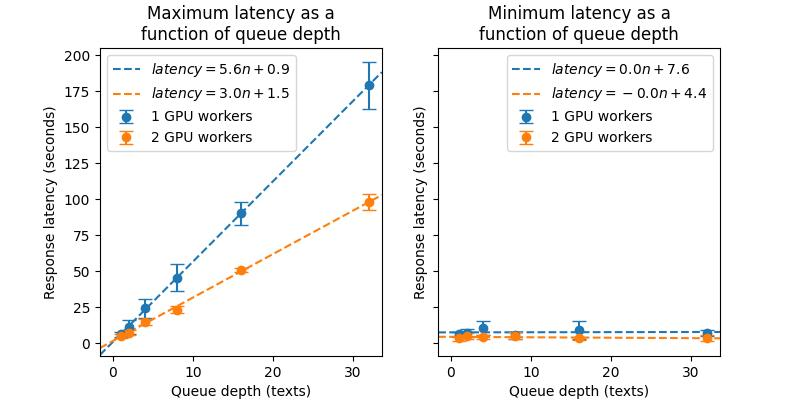
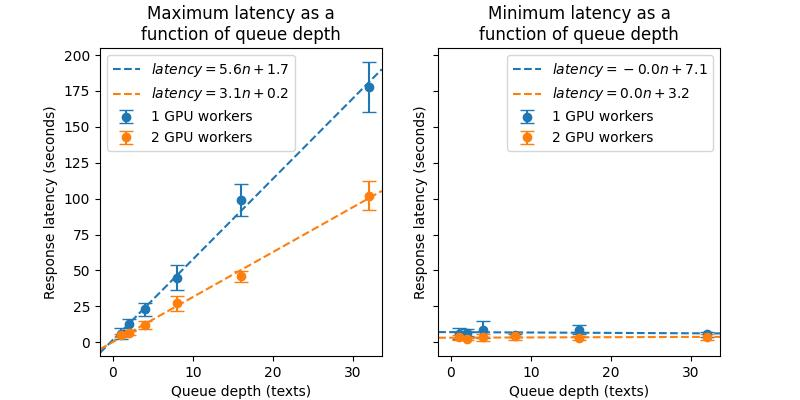
Added text fragment length filter to pipeline.

diff --git a/classifier/functions/notebook_helper.py b/classifier/functions/notebook_helper.py
@@ -1241,63 +1241,79 @@ def get_perplexity_ratio(input_queue: mp.Queue, output_queue: mp.Queue, gpu: str
         # Add the text length in words as the first feature
         features['Text length (words)']=len(input_text.split(' '))
 
-        # Fence to catch CUDA OOM
-        try:
-
-            # Encode the string using the reader's tokenizer
-            with torch.no_grad():
-                encodings = reader_model.tokenizer(
-                    input_text,
-                    return_tensors = 'pt',
-                    return_token_type_ids = False
-                ).to(reader_model.device_map)
-
-                # Get the string length in tokens and add to features
-                fragment_length = encodings['input_ids'].shape[1]
-                features['Text length (tokens)']=fragment_length
-
-                # Calculate logits
-                reader_logits = reader_model.model(**encodings).logits
-                writer_logits = writer_model.model(**encodings).logits
-
-                # Calculate perplexity and add to features
-                ppl = perplexity(encodings, writer_logits)
-                features['Perplexity']=ppl[0]
-
-                # Calculate cross perplexity and add to features
-                x_ppl = entropy(
-                    reader_logits.to(gpu), #config.CALCULATION_DEVICE),
-                    writer_logits.to(gpu), #config.CALCULATION_DEVICE),
-                    encodings.to(gpu), #config.CALCULATION_DEVICE),
-                    reader_model.tokenizer.pad_token_id
-                )
-
-                features['Cross-perplexity']=x_ppl[0]
-
-                # Calculate perplexity ratio and add to features
-                scores = ppl / x_ppl
-                scores = scores.tolist()
-                perplexity_ratio_score = scores[0]
-                features['Perplexity ratio']=perplexity_ratio_score
-
-            # Stop timer and collect time-of-flight for this process
-            dT=time.time() - start_time
-
-            # Assemble the result
-            result={'Time-of-flight':{'Perplexity ratio calculation (seconds)': dT}}
-            result['Features']=features
-            result['Status']='OK'
-
-        except RuntimeError as runtime_error:
-
-            # Show me the error
-            print(f'Caught: {str(runtime_error)}')
-            print(f"Offending fragment length: {features['Text length (tokens)']}\n")
-
-            # Skip this text and send error to subsequent workers
+        # Now we need a fence to keep text fragments that are too short
+        # or too long from entering the prediction pipeline
+        if features['Text length (words)'] > 275:
+            print('Text too long for stage II classifier.')
             result={'Time-of-flight':{}}
-            result['Features']=[]
-            result['Status']='perplexity calculation error - probably CUDA OOM'
+            result['Features']=features
+            result['Status']='Error: fragment too long'
+
+        elif features['Text length (words)'] < 26:
+            print('Text too short for stage II classifier.')
+            result={'Time-of-flight':{}}
+            result['Features']=features
+            result['Status']='Error: fragment too short'
+
+        else:
+
+            # Fence to catch CUDA OOM
+            try:
+
+                # Encode the string using the reader's tokenizer
+                with torch.no_grad():
+                    encodings = reader_model.tokenizer(
+                        input_text,
+                        return_tensors = 'pt',
+                        return_token_type_ids = False
+                    ).to(reader_model.device_map)
+
+                    # Get the string length in tokens and add to features
+                    fragment_length = encodings['input_ids'].shape[1]
+                    features['Text length (tokens)']=fragment_length
+
+                    # Calculate logits
+                    reader_logits = reader_model.model(**encodings).logits
+                    writer_logits = writer_model.model(**encodings).logits
+
+                    # Calculate perplexity and add to features
+                    ppl = perplexity(encodings, writer_logits)
+                    features['Perplexity']=ppl[0]
+
+                    # Calculate cross perplexity and add to features
+                    x_ppl = entropy(
+                        reader_logits.to(gpu), #config.CALCULATION_DEVICE),
+                        writer_logits.to(gpu), #config.CALCULATION_DEVICE),
+                        encodings.to(gpu), #config.CALCULATION_DEVICE),
+                        reader_model.tokenizer.pad_token_id
+                    )
+
+                    features['Cross-perplexity']=x_ppl[0]
+
+                    # Calculate perplexity ratio and add to features
+                    scores = ppl / x_ppl
+                    scores = scores.tolist()
+                    perplexity_ratio_score = scores[0]
+                    features['Perplexity ratio']=perplexity_ratio_score
+
+                # Stop timer and collect time-of-flight for this process
+                dT=time.time() - start_time
+
+                # Assemble the result
+                result={'Time-of-flight':{'Perplexity ratio calculation (seconds)': dT}}
+                result['Features']=features
+                result['Status']='OK'
+
+            except RuntimeError as runtime_error:
+
+                # Show me the error
+                print(f'Caught: {str(runtime_error)}')
+                print(f"Offending fragment length: {features['Text length (tokens)']}\n")
+
+                # Skip this text and send error to subsequent workers
+                result={'Time-of-flight':{}}
+                result['Features']=[]
+                result['Status']='perplexity calculation error - probably CUDA OOM'
 
         # Put the timing results in the output queue
         output_queue.put(result)
